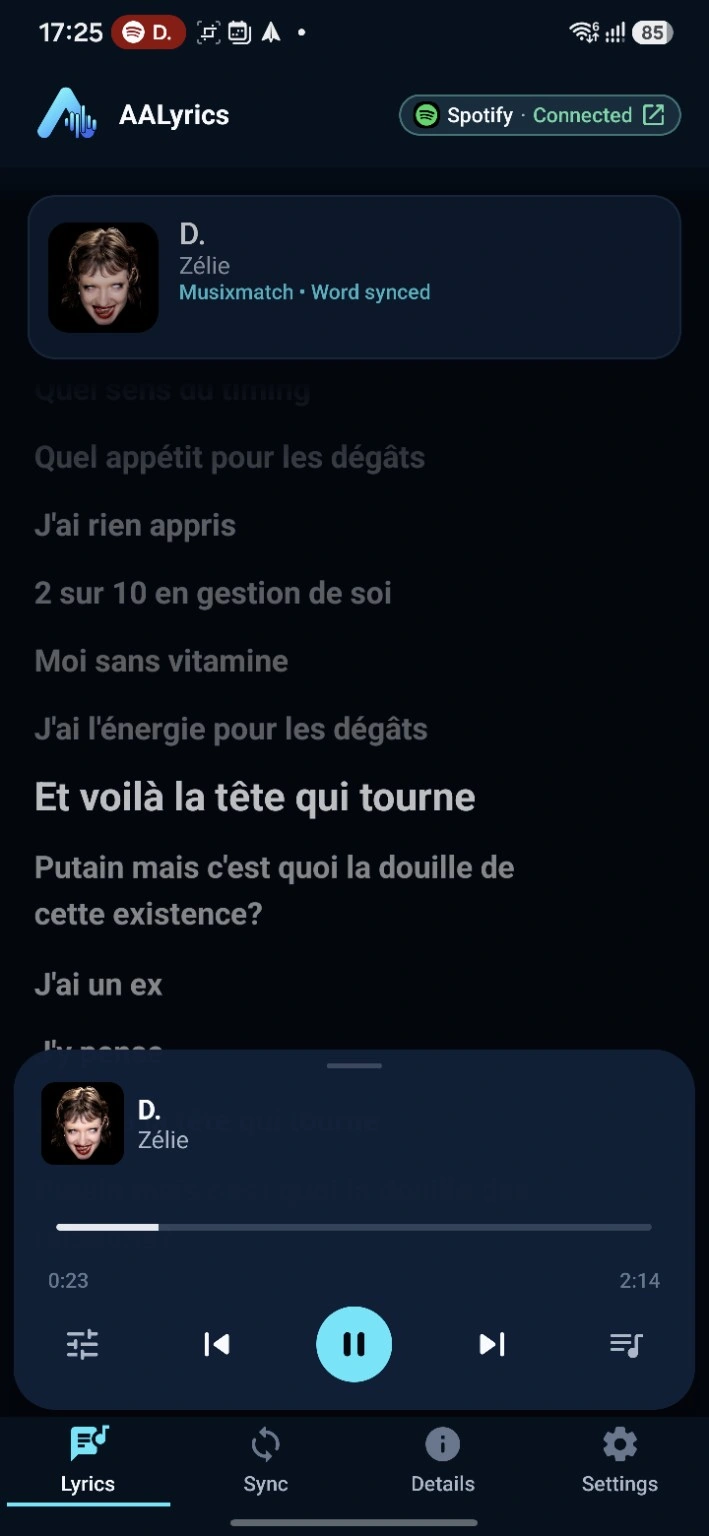
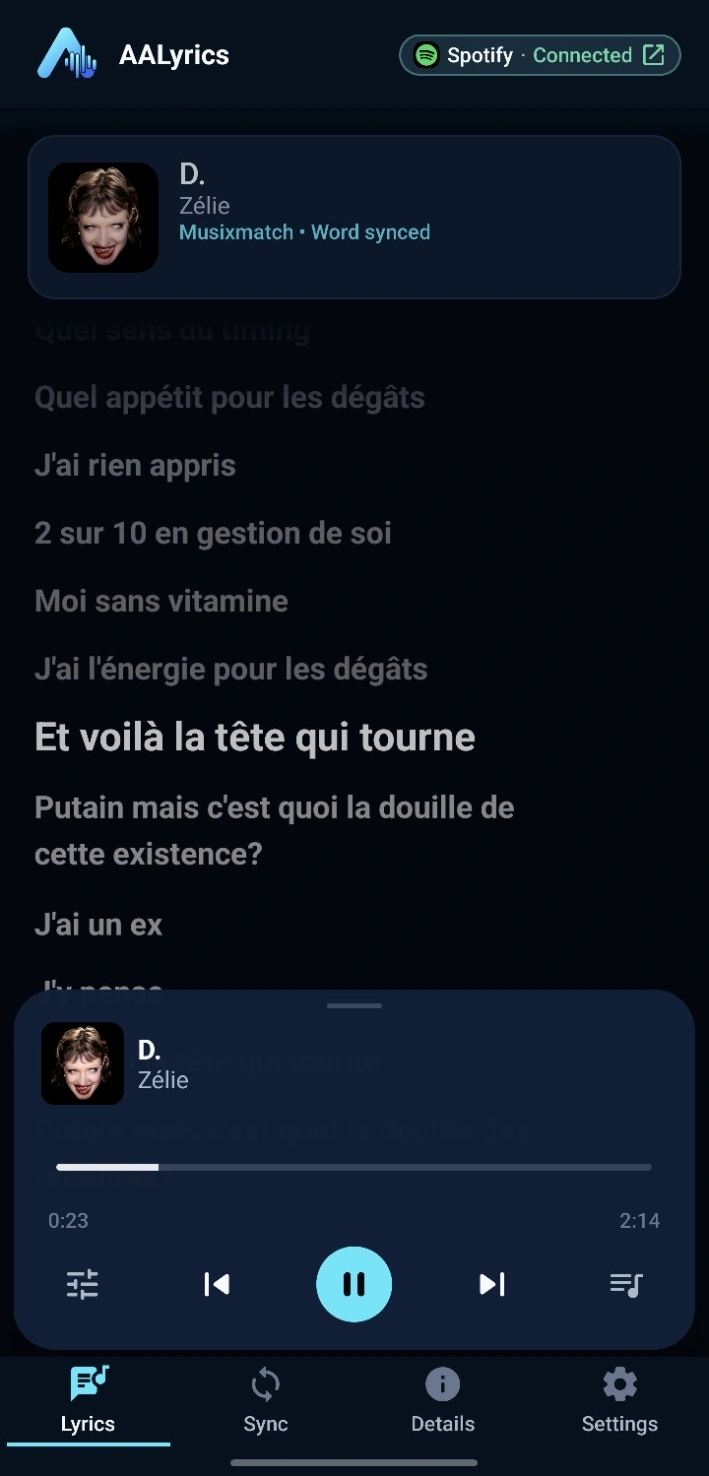
docs: refine Phone README showcase

diff --git a/TASK.md b/TASK.md
@@ -80,17 +80,17 @@ The display title is presentation only. Update comparison, APK naming, changelog
 ## Visual README refinement
 
 - `branding/AALyrics_MASTER.svg` remains authoritative. The README uses `docs/branding/aalyrics-readme-icon-rounded.svg`, a documentation-only derivative that preserves the master artwork and adds only a rounded-corner clip.
-- Three authentic Phone screenshots cover the synchronized Lyrics surface, Expanded Player, and Queue.
+- Three authentic Phone screenshots cover the synchronized Lyrics surface, Expanded Player, and Queue, displayed as one responsive three-column row near the top of the README.
 - Two authentic DHU screenshots cover Android Auto full Now Playing and split view alongside navigation.
 - The README opening follows a product-page flow: rounded brand mark -> product name/tagline -> Android/Beta/license badges -> Download APK CTA -> real product screenshot -> concise Highlights.
 - Phone Expanded Player/Queue and Android Auto full/split presentation provide visual proof of the current product state before installation and developer documentation.
-- The original Phone dimensions (709×1536) and Android Auto dimensions (1536×864) are preserved. README derivatives use high-quality WebP encoding rather than the earlier over-compressed 5–7 KB assets.
+- Phone screenshots are cropped uniformly by 60 px at the top to remove the Android system status bar while preserving the AALyrics header, resulting in 709×1476 assets. Android Auto screenshots remain 1536×864. README derivatives use high-quality WebP encoding rather than the earlier over-compressed 5–7 KB assets.
 - Project structure and architecture links remain available but are collapsed below the user-facing product/install sections rather than dominating the landing surface.
 - No application runtime, UI implementation, provider, timing, playback, Translation, Karaoke, or Android Auto behavior changed in this refinement.
 
 ## Release-prep validation record
 
-- High-quality README screenshot derivatives retain the supplied source dimensions: Phone 709×1536 and Android Auto 1536×864. Repository assets are approximately 67–82 KB for Phone and 78–112 KB for Android Auto, replacing the earlier visibly over-compressed 5–7 KB derivatives.
+- High-quality README screenshot derivatives retain full source width and UI detail. Phone assets are uniformly status-bar-cropped to 709×1476 and remain approximately 64–79 KB; Android Auto assets remain 1536×864 at approximately 78–112 KB, replacing the earlier visibly over-compressed 5–7 KB derivatives.
 - The README hero uses the rounded documentation derivative while `branding/AALyrics_MASTER.svg` remains untouched and authoritative.
 
 - Baseline alignment: the release-prep branch remains zero commits behind the intended `main @ ad4ca154604e4846e273b21a098ba0e03c98bc97` baseline.

diff --git a/README.md b/README.md
@@ -23,7 +23,9 @@
 </p>
 
 <div align="center">
-  <img src="docs/screenshots/phone-lyrics.webp" width="260" alt="AALyrics synchronized lyrics screen" />
+  <img src="docs/screenshots/phone-lyrics.webp" width="31%" alt="AALyrics synchronized lyrics screen" />
+  <img src="docs/screenshots/phone-expanded-player.webp" width="31%" alt="AALyrics expanded player" />
+  <img src="docs/screenshots/phone-queue.webp" width="31%" alt="AALyrics playback queue" />
 </div>
 
 AALyrics observes the active Android media session, matches the current track against multiple lyrics providers, and presents the best available lyrics in real time. The core experience is already functional on Phone and Android Auto, with on-device Translation, experimental word-synced Karaoke, playback controls, and signed in-app updates built around it.
@@ -37,13 +39,6 @@ AALyrics observes the active Android media session, matches the current track ag
 - 🎤 **Experimental WORD_SYNC Karaoke** — opt-in Phone presentation for genuine word-timed lyrics.
 - 🎛 **Phone playback surface** — play/pause, previous/next, seek, relative seek, and Queue support where the active media app exposes them.
 - 🔄 **Built-in updates** — signed GitHub Release APK discovery, SHA-256 verification, package/signing preflight, and Android PackageInstaller handoff.
-
-### Phone experience
-
-<div align="center">
-  <img src="docs/screenshots/phone-expanded-player.webp" width="230" alt="AALyrics expanded player" />
-  <img src="docs/screenshots/phone-queue.webp" width="230" alt="AALyrics playback queue" />
-</div>
 
 ### Android Auto experience
 
